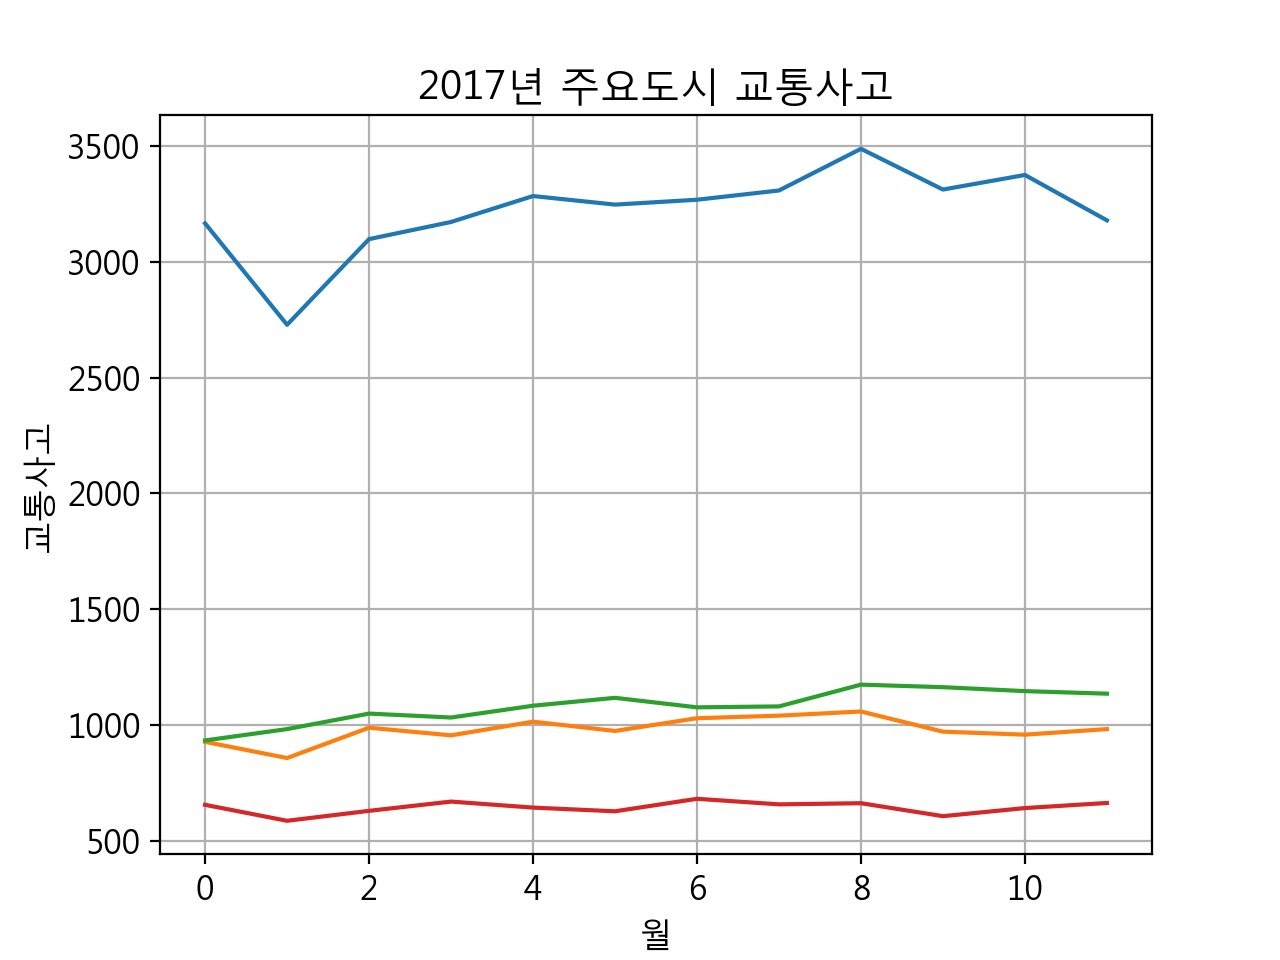
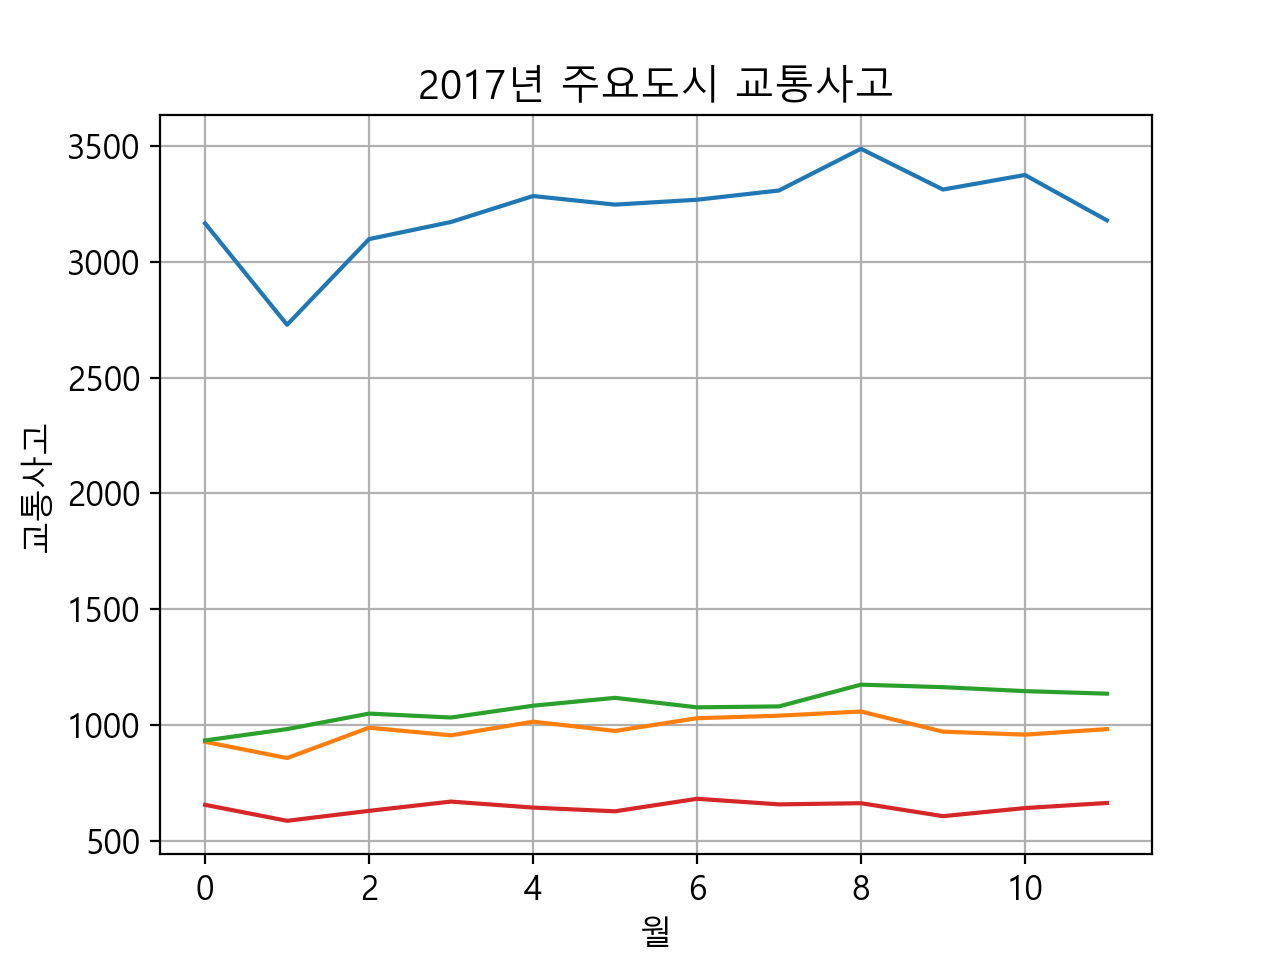
190313

diff --git a/section10/N-exam.py b/section10/N-exam.py
@@ -38,7 +38,7 @@ wc=WordCloud(font_path="NanumGothic", width=1200, height=800, scale=2.0, max_fon
 gen=wc.generate_from_frequencies(tags)
 pyplot.figure()
 pyplot.imshow(gen.recolor(color_func=img_colors), interpolation="bilinear")
-wc.to_file("exam111.png")
+wc.to_file("section10/test1.png")
 pyplot.show()
 pyplot.close()
 

diff --git a/section09/04-line3.py b/section09/04-line3.py
@@ -54,7 +54,7 @@ x=list(range(0, len(label)))
 pyplot.xticks(x, label)
 
 #그래프 저장하기
-pyplot.savefig('traffic3.png', dpi=200)
+pyplot.savefig('section09/test.png', dpi=200)
 
 
 pyplot.show()
